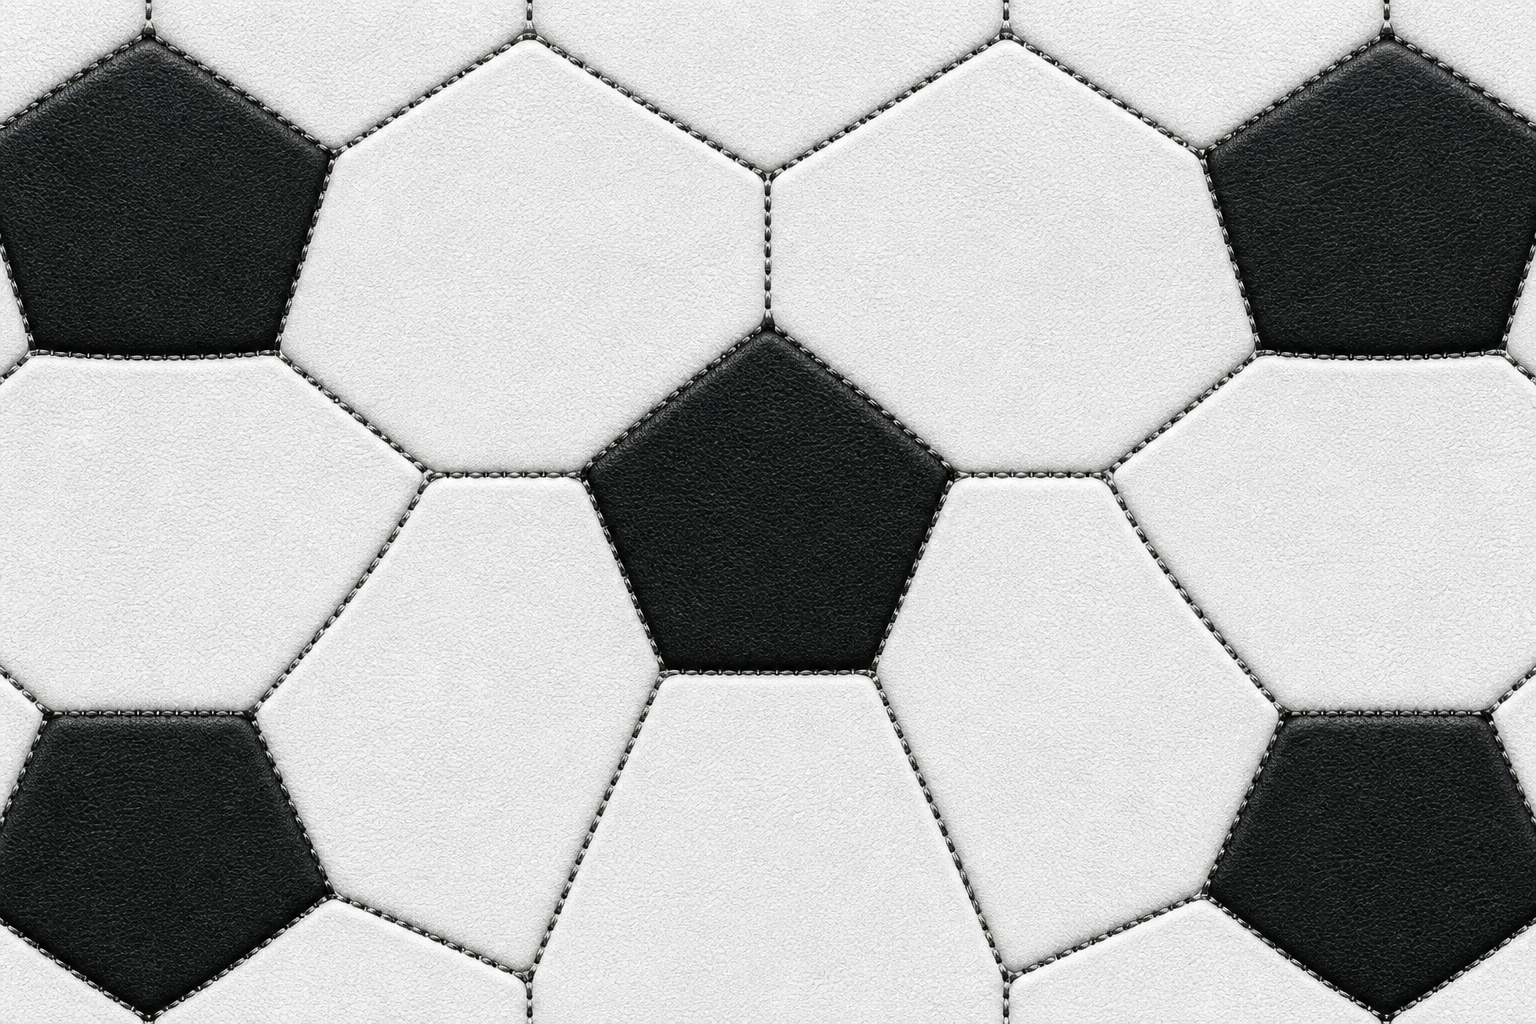
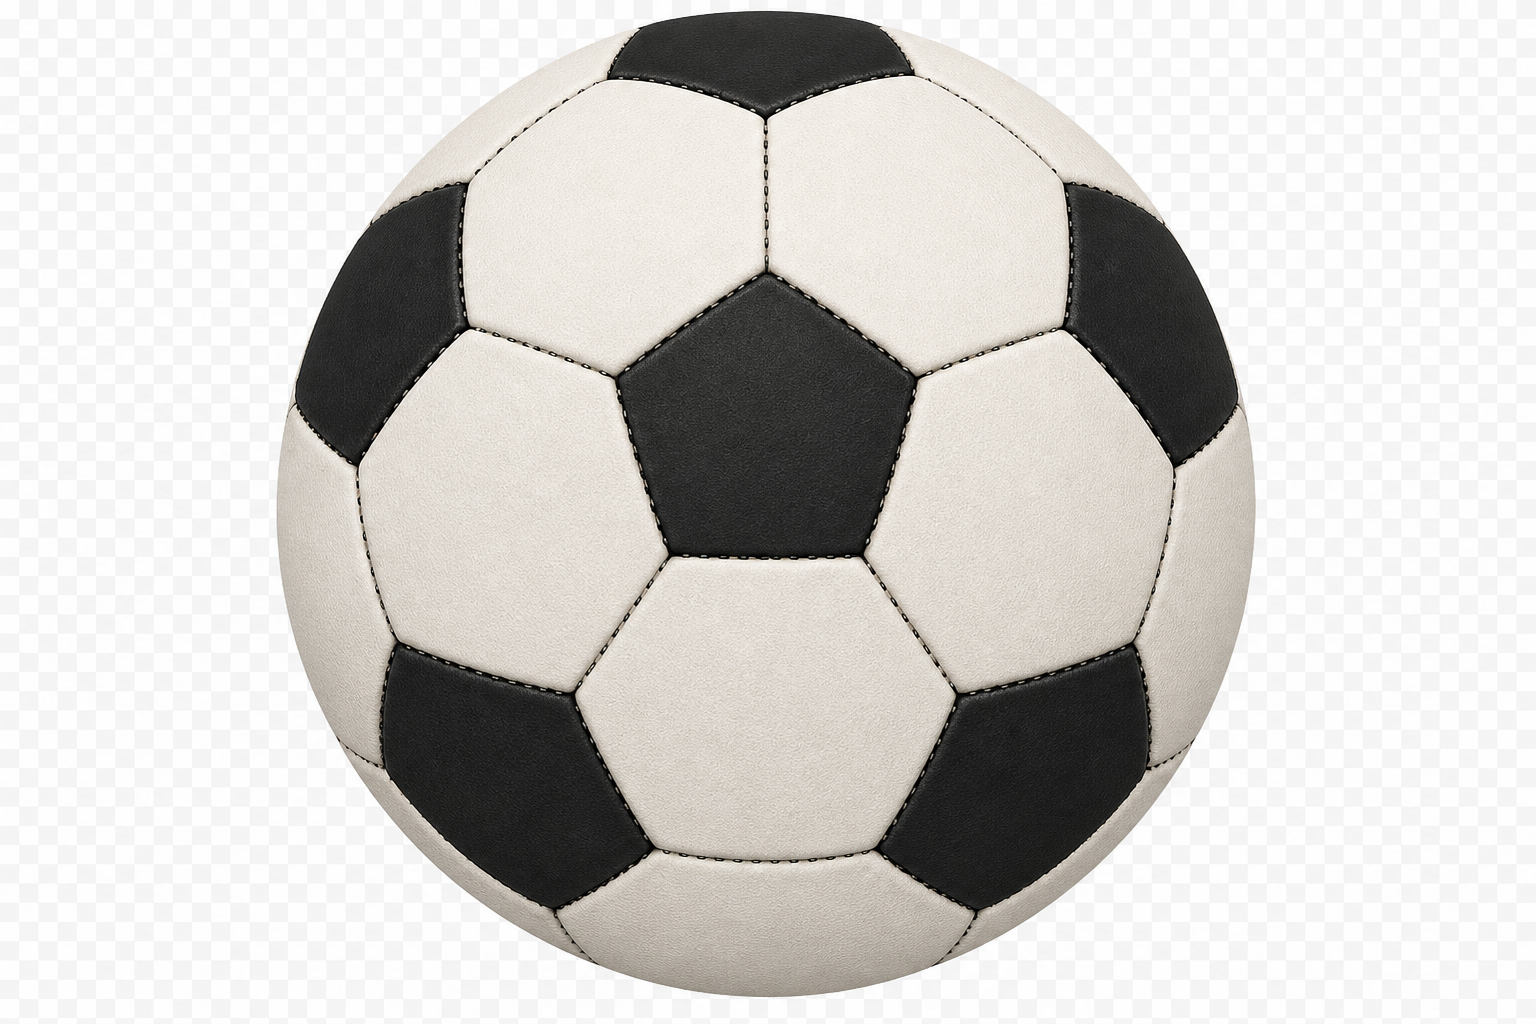
Make soccer ball material matte

diff --git a/crates/fidget-vk/src/app.rs b/crates/fidget-vk/src/app.rs
@@ -114,7 +114,7 @@ impl App {
             }
         }
 
-        // Ball: glow halo, outer body, inner core, specular highlight.
+        // Ball: faint glow halo plus matte textured body.
         let ball = &world.ball;
         let s = ball.squash_scale(cfg.max_speed);
         let v = ball.vel;
@@ -124,14 +124,13 @@ impl App {
             (s.y, s.x)
         };
         let r = ball.radius;
-        let inner = cfg.color_inner;
         let outer = cfg.color_outer;
         let c = ball.pos.to_array();
 
         self.instances.push(Instance {
             center: c,
             half: [r * 2.4 * sx, r * 2.4 * sy],
-            color: [outer.x, outer.y, outer.z, 0.16],
+            color: [outer.x, outer.y, outer.z, 0.08],
             softness: 1.0,
             material: 0.0,
             _pad: [0.0; 2],
@@ -142,23 +141,6 @@ impl App {
             color: [1.0, 1.0, 1.0, 1.0],
             softness: 0.08,
             material: 1.0,
-            _pad: [0.0; 2],
-        });
-        self.instances.push(Instance {
-            center: c,
-            half: [r * 1.1 * sx, r * 1.1 * sy],
-            color: [inner.x, inner.y, inner.z, 0.18],
-            softness: 0.82,
-            material: 0.0,
-            _pad: [0.0; 2],
-        });
-        let hl = ball.pos + Vec2::new(-0.32, -0.36) * r;
-        self.instances.push(Instance {
-            center: hl.to_array(),
-            half: [r * 0.3, r * 0.3],
-            color: [1.0, 1.0, 1.0, 0.7],
-            softness: 0.6,
-            material: 0.0,
             _pad: [0.0; 2],
         });
     }